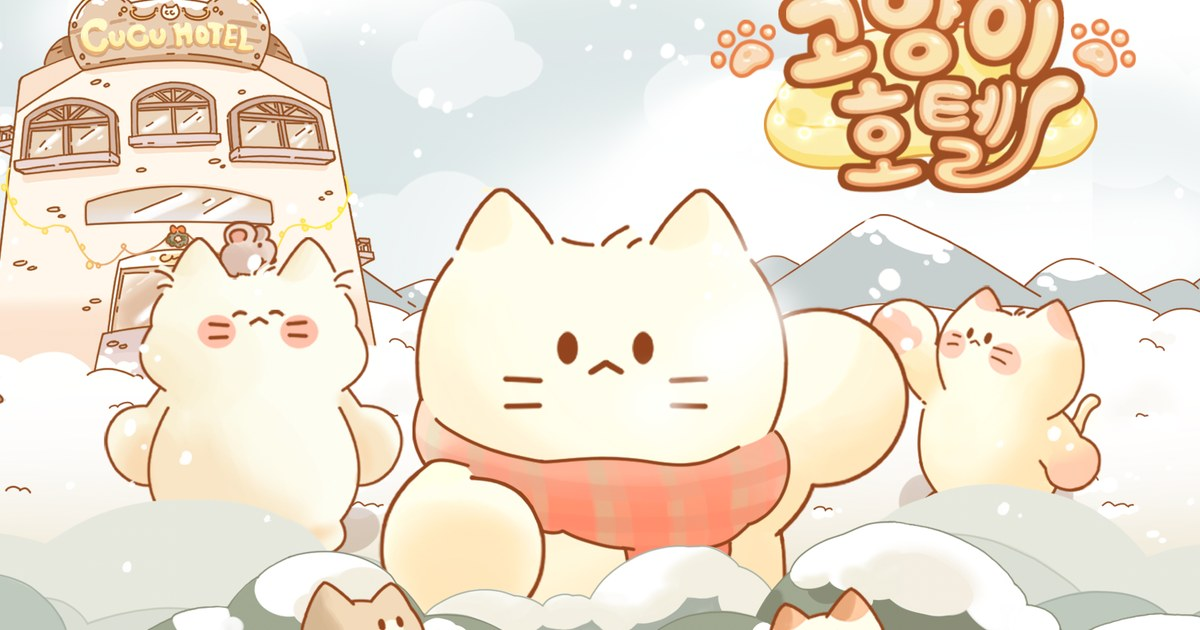
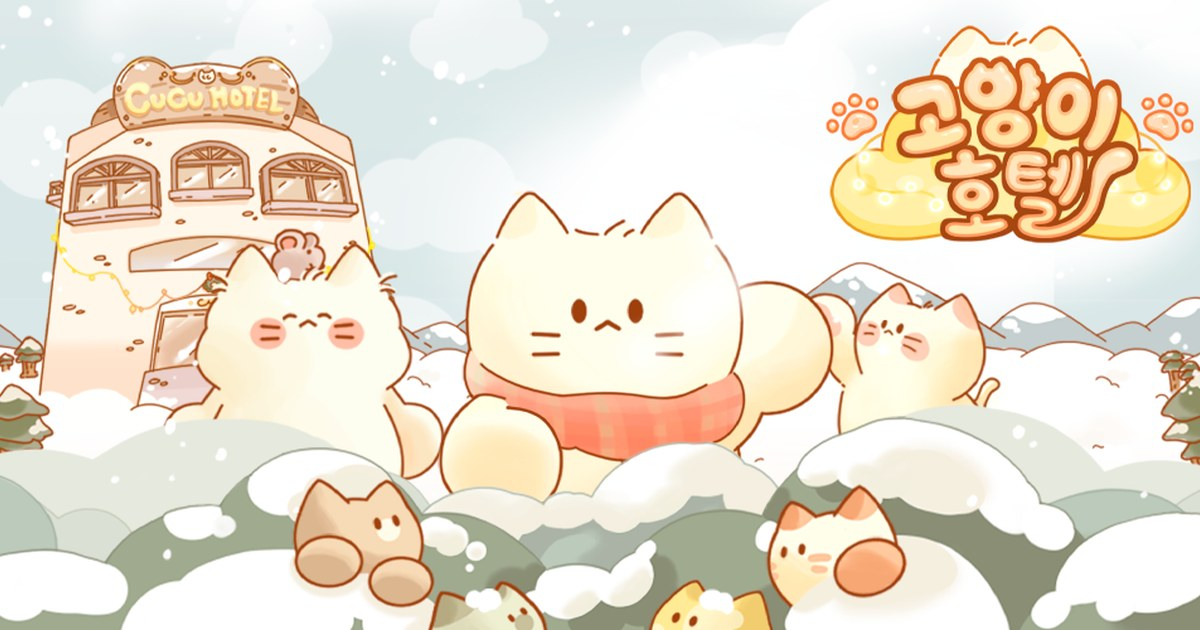
실제 앱 아이콘 및 상세 이미지 적용

diff --git a/src/assets/css/style.css b/src/assets/css/style.css
@@ -43,76 +43,116 @@ h1, h2, p { margin: 0; }
 .logo img { height: 28px; width: auto; }
 .logo-text { font-weight: 800; font-size: 15px; letter-spacing: .14em; }
 
-/* ---------- 히어로 ---------- */
-.hero {
-  padding: clamp(60px, 9vw, 104px) 0 clamp(28px, 4vw, 48px);
+/* ---------- 메인 스테이지 ---------- */
+/* 홈에서는 큰 타이틀이 곧 로고이므로 상단 헤더를 숨깁니다 */
+.home .site-header { display: none; }
+.home .stage { min-height: 100vh; }
+
+.stage {
+  min-height: calc(100vh - 64px);
+  display: grid; place-items: center;
+  padding: clamp(56px, 9vw, 96px) 0 clamp(48px, 7vw, 80px);
+  text-align: center;
   background:
-    radial-gradient(70% 120% at 10% 0%, #fff4e8 0%, rgba(255,244,232,0) 62%),
-    radial-gradient(60% 110% at 92% 10%, #eef2fb 0%, rgba(238,242,251,0) 60%),
+    radial-gradient(60% 90% at 12% 4%, #fff4e8 0%, rgba(255,244,232,0) 60%),
+    radial-gradient(55% 85% at 90% 10%, #eef2fb 0%, rgba(238,242,251,0) 58%),
     var(--bg);
 }
-.eyebrow {
-  font-size: 12px; font-weight: 700; letter-spacing: .18em;
-  color: var(--accent); margin-bottom: 14px;
+.brand {
+  font-size: clamp(28px, 5.6vw, 52px); font-weight: 800;
+  letter-spacing: .1em; line-height: 1.2;
 }
-.hero h1 {
-  font-size: clamp(32px, 5.6vw, 56px); line-height: 1.26;
-  font-weight: 800; letter-spacing: -.025em; margin-bottom: 22px;
+.brand-tag { margin-top: 14px; font-size: clamp(14px, 1.7vw, 16.5px); color: var(--muted); }
+
+.icon-grid {
+  list-style: none; padding: 0;
+  margin: clamp(44px, 6vw, 72px) auto 0;
+  display: grid; grid-template-columns: repeat(3, 1fr);
+  gap: clamp(20px, 4vw, 48px);
+  max-width: 720px;
 }
-.lead { font-size: clamp(15.5px, 1.7vw, 17.5px); line-height: 1.9; color: var(--ink-2); max-width: 640px; }
-
-/* ---------- 게임 ---------- */
-.games { padding: 0 0 clamp(64px, 8vw, 96px); }
-
-.game {
-  display: grid; grid-template-columns: 1.15fr 1fr;
-  gap: clamp(28px, 4vw, 56px); align-items: center;
-  padding: clamp(36px, 5vw, 56px) 0;
-  border-top: 1px solid var(--line);
+.icon-btn {
+  display: grid; justify-items: center; gap: 14px; width: 100%;
+  padding: 0; background: none; border: 0; cursor: pointer;
 }
-.game:first-child { border-top: 0; }
-.game:nth-child(even) .game-art { order: 2; }
+.icon-img {
+  display: block; width: 100%; aspect-ratio: 1/1;
+  border-radius: 24%; overflow: hidden;
+  box-shadow: 0 2px 5px rgba(25,24,23,.06), 0 14px 30px rgba(25,24,23,.13);
+  background: linear-gradient(135deg, #f4efe8 0%, #ece5db 100%);
+  transition: transform .28s var(--ease), box-shadow .28s var(--ease);
+}
+.icon-img img { width: 100%; height: 100%; object-fit: cover; }
+.icon-btn:hover .icon-img,
+.icon-btn:focus-visible .icon-img { transform: translateY(-6px); box-shadow: 0 4px 8px rgba(25,24,23,.07), 0 22px 44px rgba(25,24,23,.18); }
+.icon-btn:active .icon-img { transform: translateY(-2px); }
+.icon-name { font-size: clamp(13.5px, 1.6vw, 15.5px); font-weight: 700; color: var(--ink); letter-spacing: -.01em; }
 
-.media {
-  position: relative; overflow: hidden; border-radius: 20px;
-  aspect-ratio: 16 / 9; box-shadow: var(--shadow);
+/* ---------- 게임 설명 모달 ---------- */
+.modal {
+  position: fixed; inset: 0; z-index: 200;
+  display: grid; place-items: center; padding: 20px;
+}
+.modal[hidden] { display: none; }
+.modal-backdrop {
+  position: absolute; inset: 0; background: rgba(25,24,23,.55);
+  backdrop-filter: blur(3px); -webkit-backdrop-filter: blur(3px);
+  animation: fade .22s var(--ease);
+}
+.modal-panel {
+  position: relative; width: min(100%, 560px); max-height: calc(100vh - 40px);
+  overflow-y: auto; background: #fff; border-radius: 22px;
+  box-shadow: 0 30px 80px rgba(0,0,0,.32);
+  animation: pop .28s var(--ease);
+}
+.modal-close {
+  position: absolute; top: 12px; right: 12px; z-index: 2;
+  width: 36px; height: 36px; display: grid; place-items: center;
+  border-radius: 50%; background: rgba(255,255,255,.9); cursor: pointer;
+  box-shadow: 0 2px 8px rgba(0,0,0,.15);
+  transition: background .18s var(--ease), transform .18s var(--ease);
+}
+.modal-close svg { width: 17px; height: 17px; fill: none; stroke: var(--ink); stroke-width: 2.2; stroke-linecap: round; }
+.modal-close:hover { background: #fff; transform: scale(1.06); }
+
+.modal-art {
+  position: relative; overflow: hidden; aspect-ratio: 1024 / 500;
+  border-radius: 22px 22px 0 0;
   background: linear-gradient(135deg, #f4efe8 0%, #ece5db 100%);
 }
-.media img { width: 100%; height: 100%; object-fit: cover; transition: transform .6s var(--ease); }
-.game:hover .media img { transform: scale(1.035); }
-.media.is-missing::after {
+.modal-art img { width: 100%; height: 100%; object-fit: cover; }
+.modal-art.is-missing::after {
   content: attr(data-label) " 이미지";
   position: absolute; inset: 0; display: grid; place-items: center;
-  font-size: 13px; font-weight: 600; color: #b6aa9c; letter-spacing: .04em; text-align: center; padding: 16px;
+  font-size: 13px; font-weight: 600; color: #b6aa9c;
 }
 
-.game-info h2 { font-size: clamp(24px, 3.2vw, 32px); font-weight: 800; letter-spacing: -.02em; line-height: 1.3; }
-.game-en { margin-top: 4px; font-size: 13px; color: var(--muted); letter-spacing: .06em; }
-.game-tagline { margin-top: 16px; font-size: 16.5px; font-weight: 600; color: var(--ink); }
-.game-desc { margin-top: 10px; font-size: 15px; line-height: 1.85; color: var(--ink-2); }
-.game-award {
-  margin-top: 16px; padding: 9px 14px; border-radius: 12px;
+.modal-body { padding: 26px 28px 30px; text-align: left; }
+.modal-body h2 { font-size: 24px; font-weight: 800; letter-spacing: -.02em; line-height: 1.3; }
+.modal-en { margin-top: 4px; font-size: 12.5px; color: var(--muted); letter-spacing: .06em; }
+.modal-tagline { margin-top: 16px; font-size: 16px; font-weight: 600; }
+.modal-desc { margin-top: 10px; font-size: 15px; line-height: 1.85; color: var(--ink-2); }
+.modal-award {
+  margin-top: 16px; padding: 9px 13px; border-radius: 11px;
   background: #fdf6ec; border: 1px solid #f3e3cc;
-  font-size: 13px; font-weight: 600; color: #8a6428; line-height: 1.6;
+  font-size: 12.5px; font-weight: 600; color: #8a6428; line-height: 1.6;
 }
-
-.store-links { display: flex; flex-wrap: wrap; gap: 10px; margin-top: 24px; }
+.store-links { display: flex; flex-wrap: wrap; gap: 10px; margin-top: 22px; }
 .store-badge { display: inline-block; border-radius: 10px; transition: transform .18s var(--ease); }
-.store-badge img { height: 46px; width: auto; }
+.store-badge img { height: 44px; width: auto; }
 .store-badge:hover { transform: translateY(-2px); }
 
-/* ---------- 채용 배너 ---------- */
-.cta { padding: clamp(56px, 8vw, 88px) 0; background: var(--ink); color: #fff; text-align: center; }
-.cta h2 { font-size: clamp(23px, 3.2vw, 32px); font-weight: 800; letter-spacing: -.02em; }
-.cta p { margin-top: 12px; color: rgba(255,255,255,.66); font-size: 15px; }
+@keyframes fade { from { opacity: 0 } to { opacity: 1 } }
+@keyframes pop { from { opacity: 0; transform: translateY(14px) scale(.98) } to { opacity: 1; transform: none } }
+
+/* ---------- 버튼 ---------- */
 .btn {
   display: inline-flex; align-items: center; gap: 8px; margin-top: 28px;
-  padding: 13px 24px; border-radius: 999px; background: #fff; color: var(--ink);
+  padding: 13px 24px; border-radius: 999px; background: var(--ink); color: #fff;
   font-size: 15px; font-weight: 600; line-height: 1;
   transition: transform .18s var(--ease), box-shadow .18s var(--ease);
 }
-.btn:hover { transform: translateY(-2px); box-shadow: 0 14px 34px rgba(0,0,0,.28); }
-.btn--dark { background: var(--ink); color: #fff; }
+.btn:hover { transform: translateY(-2px); box-shadow: var(--shadow); }
 
 /* ---------- 푸터 ---------- */
 .site-footer { border-top: 1px solid var(--line); background: var(--soft); }
@@ -131,19 +171,18 @@ h1, h2, p { margin: 0; }
 }
 
 /* ---------- 모션 / 반응형 ---------- */
-[data-reveal] { opacity: 0; transform: translateY(18px); }
-[data-reveal].is-in { opacity: 1; transform: none; transition: opacity .7s var(--ease), transform .7s var(--ease); }
-
-@media (max-width: 820px) {
-  .game { grid-template-columns: 1fr; gap: 24px; padding: 36px 0; }
-  .game:nth-child(even) .game-art { order: 0; }
-  .media { border-radius: 16px; }
-  .store-badge img { height: 42px; }
+@media (max-width: 560px) {
+  .icon-grid { gap: 16px; }
+  .icon-name { font-size: 13px; }
+  .modal { padding: 12px; }
+  .modal-panel { border-radius: 18px; }
+  .modal-art { border-radius: 18px 18px 0 0; }
+  .modal-body { padding: 22px 20px 26px; }
+  .store-badge img { height: 40px; }
 }
 
 @media (prefers-reduced-motion: reduce) {
   *, *::before, *::after { animation-duration: .01ms !important; transition-duration: .01ms !important; }
-  [data-reveal] { opacity: 1; transform: none; }
 }
 
 /* ---------- 개인정보처리방침 ---------- */

diff --git a/src/assets/js/main.js b/src/assets/js/main.js
@@ -1,10 +1,10 @@
 (function () {
   "use strict";
 
-  /* 이미지 없을 때 자리표시자 */
-  document.querySelectorAll(".media img").forEach(function (img) {
+  /* ---------- 이미지 없을 때 자리표시자 ---------- */
+  document.querySelectorAll(".media img, .icon-img img").forEach(function (img) {
     var fail = function () {
-      var box = img.closest(".media");
+      var box = img.closest(".media") || img.closest(".icon-img");
       if (box) box.classList.add("is-missing");
       img.remove();
     };
@@ -12,16 +12,49 @@
     if (img.complete && img.naturalWidth === 0) fail();
   });
 
-  /* 스크롤 등장 애니메이션 */
-  var targets = document.querySelectorAll("[data-reveal]");
-  if (targets.length && "IntersectionObserver" in window) {
-    var io = new IntersectionObserver(function (entries) {
-      entries.forEach(function (e) {
-        if (e.isIntersecting) { e.target.classList.add("is-in"); io.unobserve(e.target); }
-      });
-    }, { rootMargin: "0px 0px -8% 0px", threshold: 0.05 });
-    targets.forEach(function (el) { io.observe(el); });
-  } else {
-    targets.forEach(function (el) { el.classList.add("is-in"); });
+  /* ---------- 게임 설명 모달 ---------- */
+  var openModal = null;
+  var lastTrigger = null;
+
+  function open(id, trigger) {
+    var m = document.getElementById(id);
+    if (!m) return;
+    close();
+    m.hidden = false;
+    document.body.style.overflow = "hidden";
+    openModal = m;
+    lastTrigger = trigger || null;
+    var btn = m.querySelector(".modal-close");
+    if (btn) btn.focus();
   }
+
+  function close() {
+    if (!openModal) return;
+    openModal.hidden = true;
+    openModal = null;
+    document.body.style.overflow = "";
+    if (lastTrigger) { lastTrigger.focus(); lastTrigger = null; }
+  }
+
+  document.querySelectorAll("[data-open]").forEach(function (btn) {
+    btn.addEventListener("click", function () {
+      open(btn.getAttribute("data-open"), btn);
+    });
+  });
+
+  document.querySelectorAll("[data-close]").forEach(function (el) {
+    el.addEventListener("click", close);
+  });
+
+  document.addEventListener("keydown", function (e) {
+    if (e.key === "Escape") close();
+    /* 모달 안에서 포커스가 빠져나가지 않도록 */
+    if (e.key === "Tab" && openModal) {
+      var f = openModal.querySelectorAll('button, a[href], [tabindex]:not([tabindex="-1"])');
+      if (!f.length) return;
+      var first = f[0], last = f[f.length - 1];
+      if (e.shiftKey && document.activeElement === first) { e.preventDefault(); last.focus(); }
+      else if (!e.shiftKey && document.activeElement === last) { e.preventDefault(); first.focus(); }
+    }
+  });
 })();

diff --git a/README.md b/README.md
@@ -1,6 +1,8 @@
 # 포스메이게임즈 홈페이지 (4th May Games)
 
-GitHub Pages로 운영되는 정적 사이트입니다. 홈 한 페이지 + 개인정보처리방침으로 구성됩니다. [Eleventy(11ty)](https://www.11ty.dev/)로 빌드합니다.
+GitHub Pages로 운영되는 정적 사이트입니다. 홈 한 페이지 + 개인정보처리방침으로 구성됩니다.
+
+홈은 **게임 아이콘 3개**만 보여주고, 아이콘을 누르면 게임 설명 팝업이 열립니다. [Eleventy(11ty)](https://www.11ty.dev/)로 빌드합니다.
 
 - 배포 주소: https://4thmaygames.github.io
 - 최종 목표 주소: https://www.4thmaygames.com (아래 2-1 참고)
@@ -68,6 +70,7 @@ git add -A && git commit -m "커스텀 도메인 연결" && git push
   "desc": "목록에 보이는 설명 문단입니다.",
   "award": "수상 이력 (없으면 이 줄 삭제)",
   "art": "/assets/images/games/froghotel.webp",
+  "icon": "/assets/images/games/froghotel-icon.webp",
   "stores": {
     "appstore": "https://apps.apple.com/kr/app/id6747689639",
     "googleplay": "https://play.google.com/store/apps/details?id=com.fourthmay.froghotel"
@@ -75,24 +78,23 @@ git add -A && git commit -m "커스텀 도메인 연결" && git push
 }
 ```
 
-배열 순서가 그대로 화면 순서이고, 이미지는 좌우 번갈아 배치됩니다.
-`stores` 에서 한쪽을 지우면 그 버튼만 사라집니다.
+배열 순서가 그대로 아이콘 순서입니다. `stores` 에서 한쪽을 지우면 그 버튼만 사라집니다.
+`icon` 은 홈에 보이는 정사각 아이콘, `art` 는 팝업 상단의 16:9 이미지입니다.
 
-회사명·채용 링크·이메일은 `src/_data/site.json` 에 있습니다.
+회사명·이메일 등은 `src/_data/site.json` 에 있습니다.
 
 ---
 
 ## 4. 이미지
 
-게임 대표 이미지는 **16:9 비율**로 잘려서 표시됩니다. 권장 원본 1280×720 이상.
-
-| 파일 | 용도 |
-|------|------|
-| `src/assets/images/games/{slug}.webp` | 게임 대표 이미지 |
-| `src/assets/images/common/logo.png` | 헤더 로고 (배경 투명) — 없으면 텍스트로 표시 |
-| `src/assets/images/common/favicon.png` | 브라우저 탭 아이콘 |
-| `src/assets/images/common/og-image.jpg` | 카톡·SNS 공유 썸네일 (1200×630) |
-| `src/assets/images/common/badge-*.png` | App Store / Google Play 배지 |
+| 파일 | 용도 | 비율 |
+|------|------|------|
+| `src/assets/images/games/{slug}-icon.webp` | 홈 화면 아이콘 | 512×512 (스토어 앱 아이콘) |
+| `src/assets/images/games/{slug}.webp` | 팝업 상단 이미지 | 1024×500 (스토어 피처 그래픽) |
+| `src/assets/images/common/logo.png` | 헤더 로고 (개인정보처리방침 페이지용) | — |
+| `src/assets/images/common/favicon.png` | 브라우저 탭 아이콘 | 1:1 |
+| `src/assets/images/common/og-image.jpg` | 카톡·SNS 공유 썸네일 | 1200×630 |
+| `src/assets/images/common/badge-*.png` | App Store / Google Play 배지 | — |
 
 이미지가 없으면 회색 자리표시자가 나오고, 사이트는 정상 동작합니다.
 
